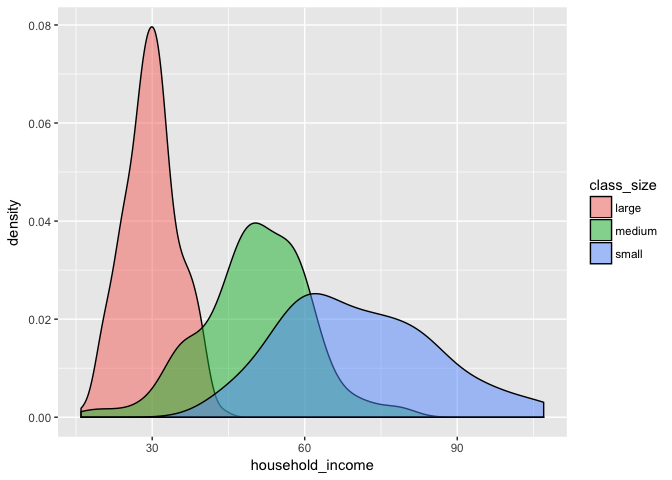
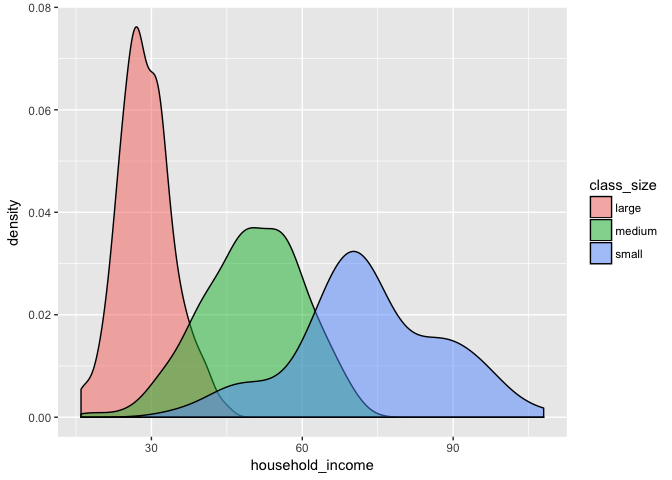
update solutions

diff --git a/scores_activity_solutions.md b/scores_activity_solutions.md
@@ -5,29 +5,40 @@ Create the data
 ===============
 
 ``` r
-n_small <- 80
-n_medium <- 160
-n_large <- 240
-n_total <- n_small + n_medium + n_large
+# n_small <- 80
+# n_medium <- 160
+# n_large <- 240
+# n_total <- n_small + n_medium + n_large
+# 
+# math <- data_frame(student_id = sample(n_total),
+#            class_size = c(rep("small", n_small), rep("medium", n_medium), rep("large", n_large)),
+#            household_income = c(rnorm(n_small, mean = 70, sd = 15), rnorm(n_medium, mean = 50, sd = 10), rnorm(n_large, mean = 30, sd = 5)) %>% round(),
+#            gender = sample(c("male", "female"), replace = TRUE, size = n_total),
+#            test_score = paste0("math_ss_", 
+#                                round(c(rnorm(n_small, mean = 105, sd = 15), rnorm(n_medium, mean = 100, sd = 15), rnorm(n_large, mean = 95, sd = 15)) + 
+#                                  household_income / 5 + rnorm(n_total)))) %>% 
+#              mutate(household_income = paste0(household_income, "k"))
+# 
+# english <- math %>% 
+#   mutate(test_score = paste0("reading_ss_", round((rnorm(n_total, mean = 100, sd = 15)))))
+# 
+# scores <- bind_rows(math, english) %>% 
+#   sample_frac()
+#   # mutate(test_score = ifelse(row_number() %in% sample(1:360, size = 15), NA, test_score))
+# 
+# scores %>% write_csv("scores.csv")
 
-math <- data_frame(student_id = sample(n_total),
-           class_size = c(rep("small", n_small), rep("medium", n_medium), rep("large", n_large)),
-           household_income = c(rnorm(n_small, mean = 70, sd = 15), rnorm(n_medium, mean = 50, sd = 10), rnorm(n_large, mean = 30, sd = 5)) %>% round(),
-           gender = sample(c("male", "female"), replace = TRUE, size = n_total),
-           test_score = paste0("math_ss_", 
-                               round(c(rnorm(n_small, mean = 105, sd = 15), rnorm(n_medium, mean = 100, sd = 15), rnorm(n_large, mean = 95, sd = 15)) + 
-                                 household_income / 5 + rnorm(n_total)))) %>% 
-             mutate(household_income = paste0(household_income, "k"))
-
-english <- math %>% 
-  mutate(test_score = paste0("reading_ss_", round((rnorm(n_total, mean = 100, sd = 15)))))
-
-scores <- bind_rows(math, english) %>% 
-  sample_frac()
-  # mutate(test_score = ifelse(row_number() %in% sample(1:360, size = 15), NA, test_score))
-
-scores %>% write_csv("scores.csv")
+scores <- read_csv("/Users/benstenhaug/Google Drive/Stanford/Stanford Teaching/Data/scores.csv")
 ```
+
+    ## Parsed with column specification:
+    ## cols(
+    ##   student_id = col_integer(),
+    ##   class_size = col_character(),
+    ##   household_income = col_character(),
+    ##   gender = col_character(),
+    ##   test_score = col_character()
+    ## )
 
 Background
 ==========
@@ -48,7 +59,24 @@ scores <- scores %>%
          test_name = test_score %>% str_extract("[:alpha:]+"),
          test_score = test_score %>% str_extract("\\d+") %>% as.numeric()) %>% 
   spread(key = test_name, value = test_score)
+
+scores
 ```
+
+    ## # A tibble: 480 x 6
+    ##    student_id class_size household_income gender  math reading
+    ##  *      <int>      <chr>            <dbl>  <chr> <dbl>   <dbl>
+    ##  1          1     medium               62   male   119      93
+    ##  2          2      small               88   male   143      84
+    ##  3          3      large               30   male    89     109
+    ##  4          4      large               24   male   108     100
+    ##  5          5     medium               57 female    71      98
+    ##  6          6      large               34 female   101     109
+    ##  7          7      small               67 female   110     106
+    ##  8          8     medium               43 female    99     121
+    ##  9          9      large               38 female   103      91
+    ## 10         10      small               74 female   110      93
+    ## # ... with 470 more rows
 
 Explore generally
 =================
@@ -85,8 +113,8 @@ scores %>% count(gender)
     ## # A tibble: 2 x 2
     ##   gender     n
     ##    <chr> <int>
-    ## 1 female   232
-    ## 2   male   248
+    ## 1 female   227
+    ## 2   male   253
 
 ``` r
 scores %>% count(class_size, gender)
@@ -95,12 +123,12 @@ scores %>% count(class_size, gender)
     ## # A tibble: 6 x 3
     ##   class_size gender     n
     ##        <chr>  <chr> <int>
-    ## 1      large female   113
-    ## 2      large   male   127
-    ## 3     medium female    86
-    ## 4     medium   male    74
-    ## 5      small female    33
-    ## 6      small   male    47
+    ## 1      large female   115
+    ## 2      large   male   125
+    ## 3     medium female    67
+    ## 4     medium   male    93
+    ## 5      small female    45
+    ## 6      small   male    35
 
 ``` r
 scores %>% 
@@ -131,6 +159,8 @@ Math
 
 Run a t-test to compare the small clase size math scores to the large class sizes math scores. What can you conclude?
 
+-   The t-test tells us that the means of these two groups are statistically different.
+
 ``` r
 t.test(math ~ class_size, var.equal = TRUE, data = scores %>% filter(class_size != "medium"))
 ```
@@ -139,31 +169,35 @@ t.test(math ~ class_size, var.equal = TRUE, data = scores %>% filter(class_size 
     ##  Two Sample t-test
     ## 
     ## data:  math by class_size
-    ## t = -7.7351, df = 318, p-value = 1.377e-13
+    ## t = -10.467, df = 318, p-value < 2.2e-16
     ## alternative hypothesis: true difference in means is not equal to 0
     ## 95 percent confidence interval:
-    ##  -19.30659 -11.47675
+    ##  -23.69487 -16.19679
     ## sample estimates:
     ## mean in group large mean in group small 
-    ##            100.9083            116.3000
+    ##            99.26667           119.21250
 
 Run an anova to see if math scores vary by class size. What can you conclude?
+
+-   The anova (analysis of variance) tells us that the means of these three groups are not the same. For exactly, the following is false: mean\_small == mean\_medium == mean\_large.
 
 ``` r
 summary(aov(math~class_size, data = scores))
 ```
 
     ##              Df Sum Sq Mean Sq F value Pr(>F)    
-    ## class_size    2  19110    9555   40.08 <2e-16 ***
-    ## Residuals   477 113731     238                   
+    ## class_size    2  27925   13963   67.41 <2e-16 ***
+    ## Residuals   477  98807     207                   
     ## ---
     ## Signif. codes:  0 '***' 0.001 '**' 0.01 '*' 0.05 '.' 0.1 ' ' 1
 
 Run a regression with y = math and x = class\_size. How does this compare to the anova?
 
+-   This gives us the exact same p-value. It also provides us additional information. The intercept is the mean of the large class. The estimate for class size medium is the increase in test scores for medium classes and so on.
+
 ``` r
-mod <- lm(math ~ class_size, data = scores)
-summary(mod)
+mod_math <- lm(math ~ class_size, data = scores)
+summary(mod_math)
 ```
 
     ## 
@@ -172,25 +206,27 @@ summary(mod)
     ## 
     ## Residuals:
     ##     Min      1Q  Median      3Q     Max 
-    ## -38.300 -11.358   0.092  10.469  45.092 
+    ## -39.419  -9.267  -0.267   9.733  43.733 
     ## 
     ## Coefficients:
     ##                  Estimate Std. Error t value Pr(>|t|)    
-    ## (Intercept)      100.9083     0.9967 101.240  < 2e-16 ***
-    ## class_sizemedium  10.6229     1.5760   6.741 4.57e-11 ***
-    ## class_sizesmall   15.3917     1.9934   7.721 6.83e-14 ***
+    ## (Intercept)        99.267      0.929 106.850  < 2e-16 ***
+    ## class_sizemedium   11.152      1.469   7.592 1.67e-13 ***
+    ## class_sizesmall    19.946      1.858  10.735  < 2e-16 ***
     ## ---
     ## Signif. codes:  0 '***' 0.001 '**' 0.01 '*' 0.05 '.' 0.1 ' ' 1
     ## 
-    ## Residual standard error: 15.44 on 477 degrees of freedom
-    ## Multiple R-squared:  0.1439, Adjusted R-squared:  0.1403 
-    ## F-statistic: 40.08 on 2 and 477 DF,  p-value: < 2.2e-16
+    ## Residual standard error: 14.39 on 477 degrees of freedom
+    ## Multiple R-squared:  0.2203, Adjusted R-squared:  0.2171 
+    ## F-statistic: 67.41 on 2 and 477 DF,  p-value: < 2.2e-16
 
 Now add in household\_income as an independent variable into the regression. What changes? What can you conclude?
 
+-   This is very important! Remember that household income was greater for students in small classes. We see here that higher household income looks to associate with better test scores. By adding it into the regression model, we control for household income. This reduces the effect of medium class size for example (from 11.1 to 8.6) but it is still significantly greater than 0.
+
 ``` r
-mod <- lm(math ~ class_size + household_income, data = scores)
-summary(mod)
+mod_math <- lm(math ~ class_size + household_income, data = scores)
+summary(mod_math)
 ```
 
     ## 
@@ -199,79 +235,86 @@ summary(mod)
     ## 
     ## Residuals:
     ##     Min      1Q  Median      3Q     Max 
-    ## -38.600 -11.082   0.107  10.424  45.901 
+    ## -40.260  -9.679  -0.380   9.610  43.477 
     ## 
     ## Coefficients:
     ##                  Estimate Std. Error t value Pr(>|t|)    
-    ## (Intercept)      92.22189    2.43336  37.899  < 2e-16 ***
-    ## class_sizemedium  4.62956    2.18433   2.119 0.034570 *  
-    ## class_sizesmall   3.47789    3.63079   0.958 0.338605    
-    ## household_income  0.29174    0.07477   3.902 0.000109 ***
+    ## (Intercept)      95.75478    2.30200  41.596  < 2e-16 ***
+    ## class_sizemedium  8.57554    2.13055   4.025 6.63e-05 ***
+    ## class_sizesmall  14.55719    3.72713   3.906 0.000108 ***
+    ## household_income  0.12157    0.07294   1.667 0.096214 .  
     ## ---
     ## Signif. codes:  0 '***' 0.001 '**' 0.01 '*' 0.05 '.' 0.1 ' ' 1
     ## 
-    ## Residual standard error: 15.22 on 476 degrees of freedom
-    ## Multiple R-squared:  0.1704, Adjusted R-squared:  0.1652 
-    ## F-statistic: 32.59 on 3 and 476 DF,  p-value: < 2.2e-16
+    ## Residual standard error: 14.37 on 476 degrees of freedom
+    ## Multiple R-squared:  0.2249, Adjusted R-squared:   0.22 
+    ## F-statistic: 46.03 on 3 and 476 DF,  p-value: < 2.2e-16
 
 Add in gender as well. What can you conclude?
 
+-   Gender doesn't seem to be associated with test score so including it in the model doesns't have much of an impact.
+
 ``` r
 mod_math <- lm(math ~ class_size + household_income + gender, data = scores)
-summary(mod)
+summary(mod_math)
 ```
 
     ## 
     ## Call:
-    ## lm(formula = math ~ class_size + household_income, data = scores)
+    ## lm(formula = math ~ class_size + household_income + gender, data = scores)
     ## 
     ## Residuals:
     ##     Min      1Q  Median      3Q     Max 
-    ## -38.600 -11.082   0.107  10.424  45.901 
+    ## -40.324  -9.653  -0.332   9.587  43.417 
     ## 
     ## Coefficients:
     ##                  Estimate Std. Error t value Pr(>|t|)    
-    ## (Intercept)      92.22189    2.43336  37.899  < 2e-16 ***
-    ## class_sizemedium  4.62956    2.18433   2.119 0.034570 *  
-    ## class_sizesmall   3.47789    3.63079   0.958 0.338605    
-    ## household_income  0.29174    0.07477   3.902 0.000109 ***
+    ## (Intercept)      95.82476    2.44037  39.267  < 2e-16 ***
+    ## class_sizemedium  8.58980    2.13905   4.016 6.89e-05 ***
+    ## class_sizesmall  14.56286    3.73158   3.903 0.000109 ***
+    ## household_income  0.12123    0.07312   1.658 0.097996 .  
+    ## gendermale       -0.11525    1.32284  -0.087 0.930608    
     ## ---
     ## Signif. codes:  0 '***' 0.001 '**' 0.01 '*' 0.05 '.' 0.1 ' ' 1
     ## 
-    ## Residual standard error: 15.22 on 476 degrees of freedom
-    ## Multiple R-squared:  0.1704, Adjusted R-squared:  0.1652 
-    ## F-statistic: 32.59 on 3 and 476 DF,  p-value: < 2.2e-16
+    ## Residual standard error: 14.38 on 475 degrees of freedom
+    ## Multiple R-squared:  0.2249, Adjusted R-squared:  0.2184 
+    ## F-statistic: 34.45 on 4 and 475 DF,  p-value: < 2.2e-16
 
 Reading
 =======
 
 Run a regression to determine the effect of class size on reading. What do you find? How does it compare to math?
 
+-   There is significantly less effect if any of class size on reading scores. Interesting to think about why this might be.
+
 ``` r
 mod_reading <- lm(reading ~ class_size + household_income + gender, data = scores)
-summary(mod)
+summary(mod_reading)
 ```
 
     ## 
     ## Call:
-    ## lm(formula = math ~ class_size + household_income, data = scores)
+    ## lm(formula = reading ~ class_size + household_income + gender, 
+    ##     data = scores)
     ## 
     ## Residuals:
     ##     Min      1Q  Median      3Q     Max 
-    ## -38.600 -11.082   0.107  10.424  45.901 
+    ## -41.873  -9.646   1.337  10.393  30.414 
     ## 
     ## Coefficients:
     ##                  Estimate Std. Error t value Pr(>|t|)    
-    ## (Intercept)      92.22189    2.43336  37.899  < 2e-16 ***
-    ## class_sizemedium  4.62956    2.18433   2.119 0.034570 *  
-    ## class_sizesmall   3.47789    3.63079   0.958 0.338605    
-    ## household_income  0.29174    0.07477   3.902 0.000109 ***
+    ## (Intercept)      99.60581    2.40266  41.456   <2e-16 ***
+    ## class_sizemedium  4.15645    2.10600   1.974   0.0490 *  
+    ## class_sizesmall   4.08874    3.67393   1.113   0.2663    
+    ## household_income -0.04441    0.07199  -0.617   0.5376    
+    ## gendermale        2.64392    1.30240   2.030   0.0429 *  
     ## ---
     ## Signif. codes:  0 '***' 0.001 '**' 0.01 '*' 0.05 '.' 0.1 ' ' 1
     ## 
-    ## Residual standard error: 15.22 on 476 degrees of freedom
-    ## Multiple R-squared:  0.1704, Adjusted R-squared:  0.1652 
-    ## F-statistic: 32.59 on 3 and 476 DF,  p-value: < 2.2e-16
+    ## Residual standard error: 14.16 on 475 degrees of freedom
+    ## Multiple R-squared:  0.02103,    Adjusted R-squared:  0.01279 
+    ## F-statistic: 2.552 on 4 and 475 DF,  p-value: 0.03847
 
 Prediction
 ==========
@@ -306,14 +349,16 @@ data_to_predict %>%
     ## # A tibble: 6 x 5
     ##   gender household_income class_size pred_math pred_reading
     ##    <chr>            <dbl>      <chr>     <dbl>        <dbl>
-    ## 1   male               50      small       110          101
-    ## 2   male               50     medium       111           99
-    ## 3   male               50      large       107          103
-    ## 4 female              100      small       125          107
-    ## 5 female              100     medium       126          105
-    ## 6 female              100      large       121          109
+    ## 1   male               50      small       116          104
+    ## 2   male               50     medium       110          104
+    ## 3   male               50      large       102          100
+    ## 4 female              100      small       123           99
+    ## 5 female              100     medium       117           99
+    ## 6 female              100      large       108           95
 
 Suggestion
 ==========
 
 Time to make a decision. It costs the school 4k a year to have a kid in a small class size for the year, 3k a year for a medium class size, and 2k a year for a large class size. What size classes would you suggest the school uses for their students. Why? Be sure to consider other uses of school funds.
+
+-   This is a really interesting question. It all depends on what you estimate a 10 point increase in math test scores to be worth economically in the long-term which seems very difficult to estimate. Also depends on what other interventions instead of changing class size that one might help math scores.
